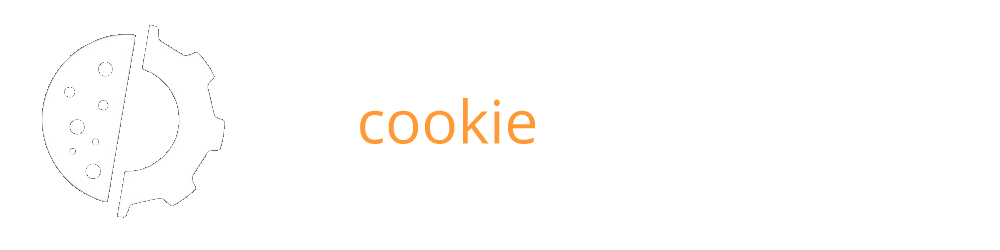
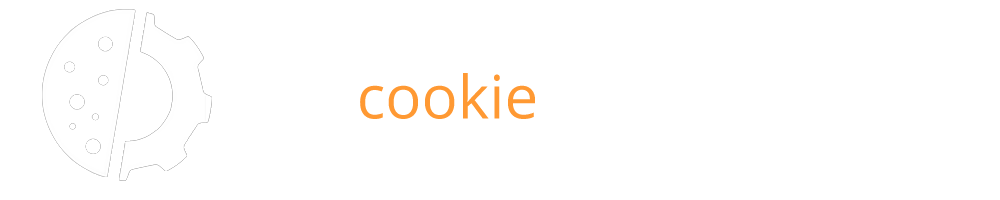
header updated

diff --git a/base.css b/base.css
@@ -25,7 +25,7 @@ body, html {
 
 header {
   width: 1000px;
-  height: 250px;
+  height: 200px;
   margin: auto;
   background-image: url(img/header.png);
 }
